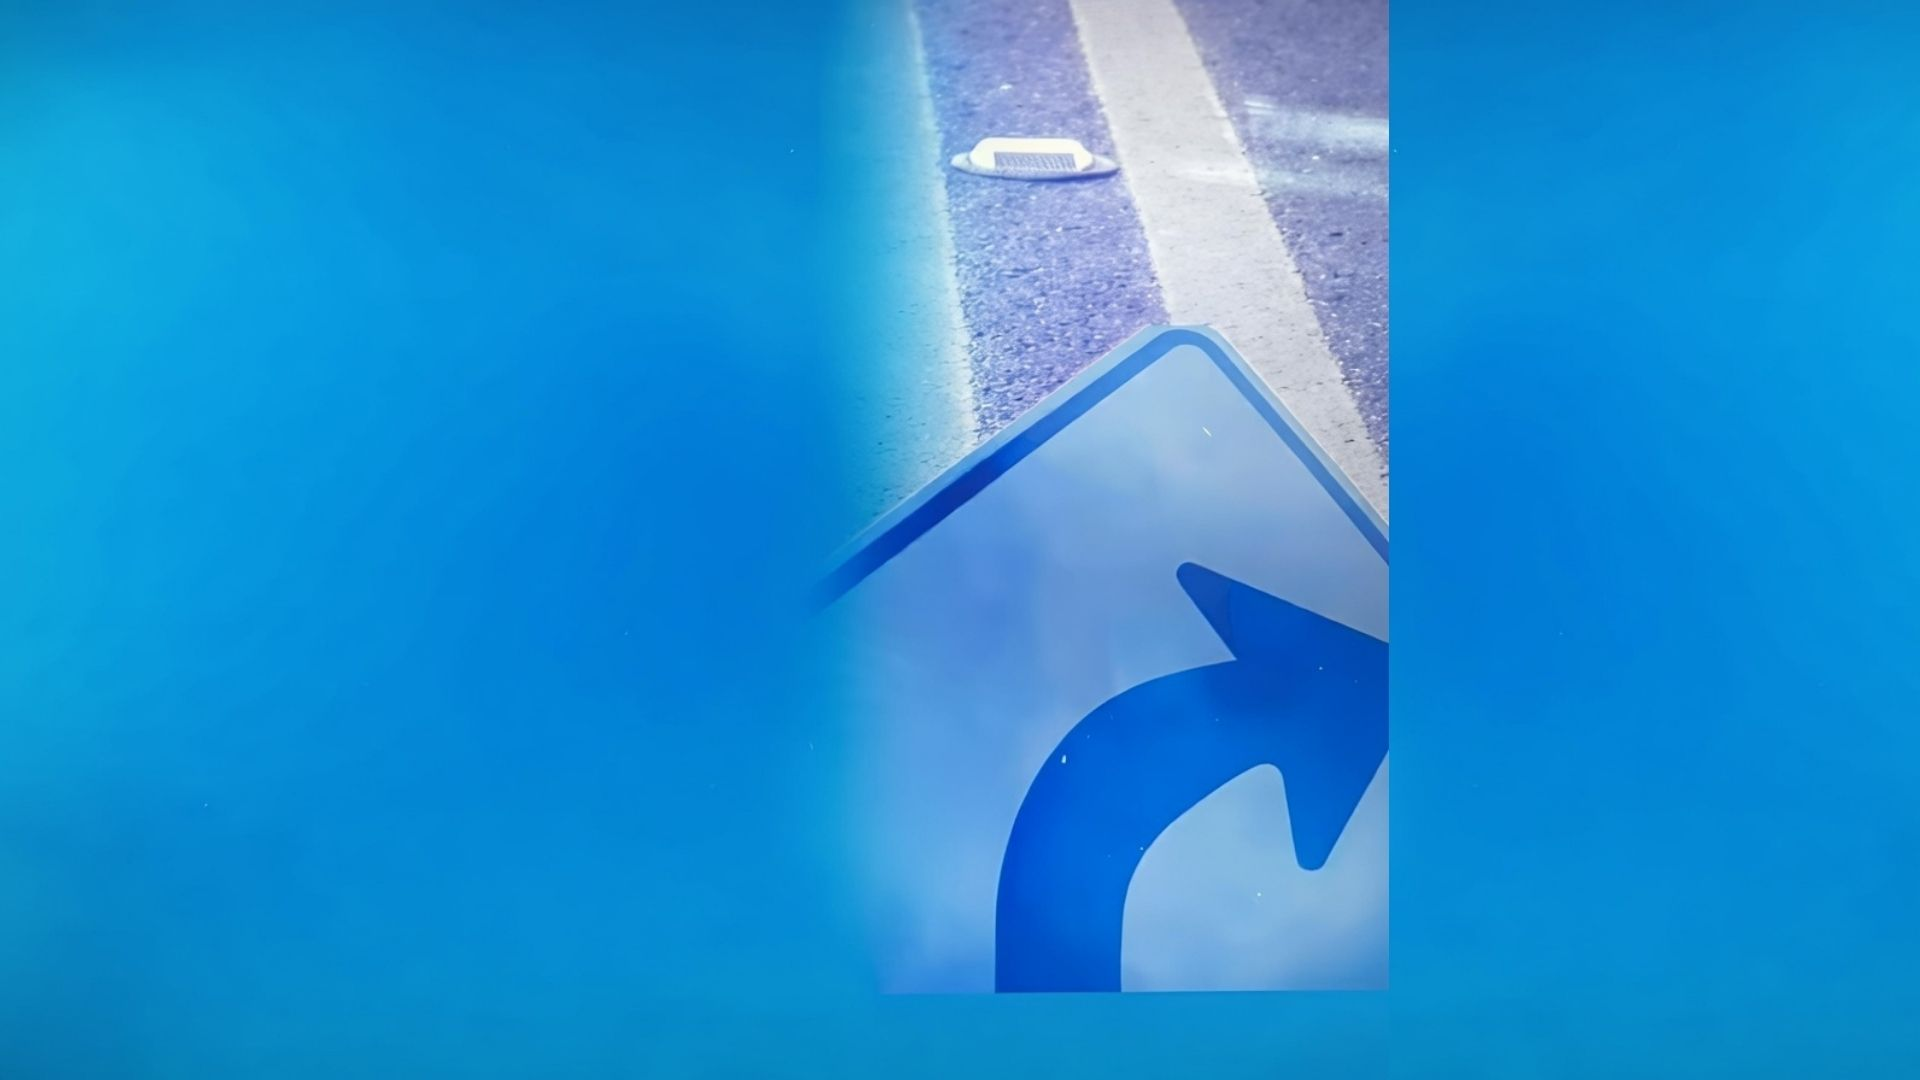
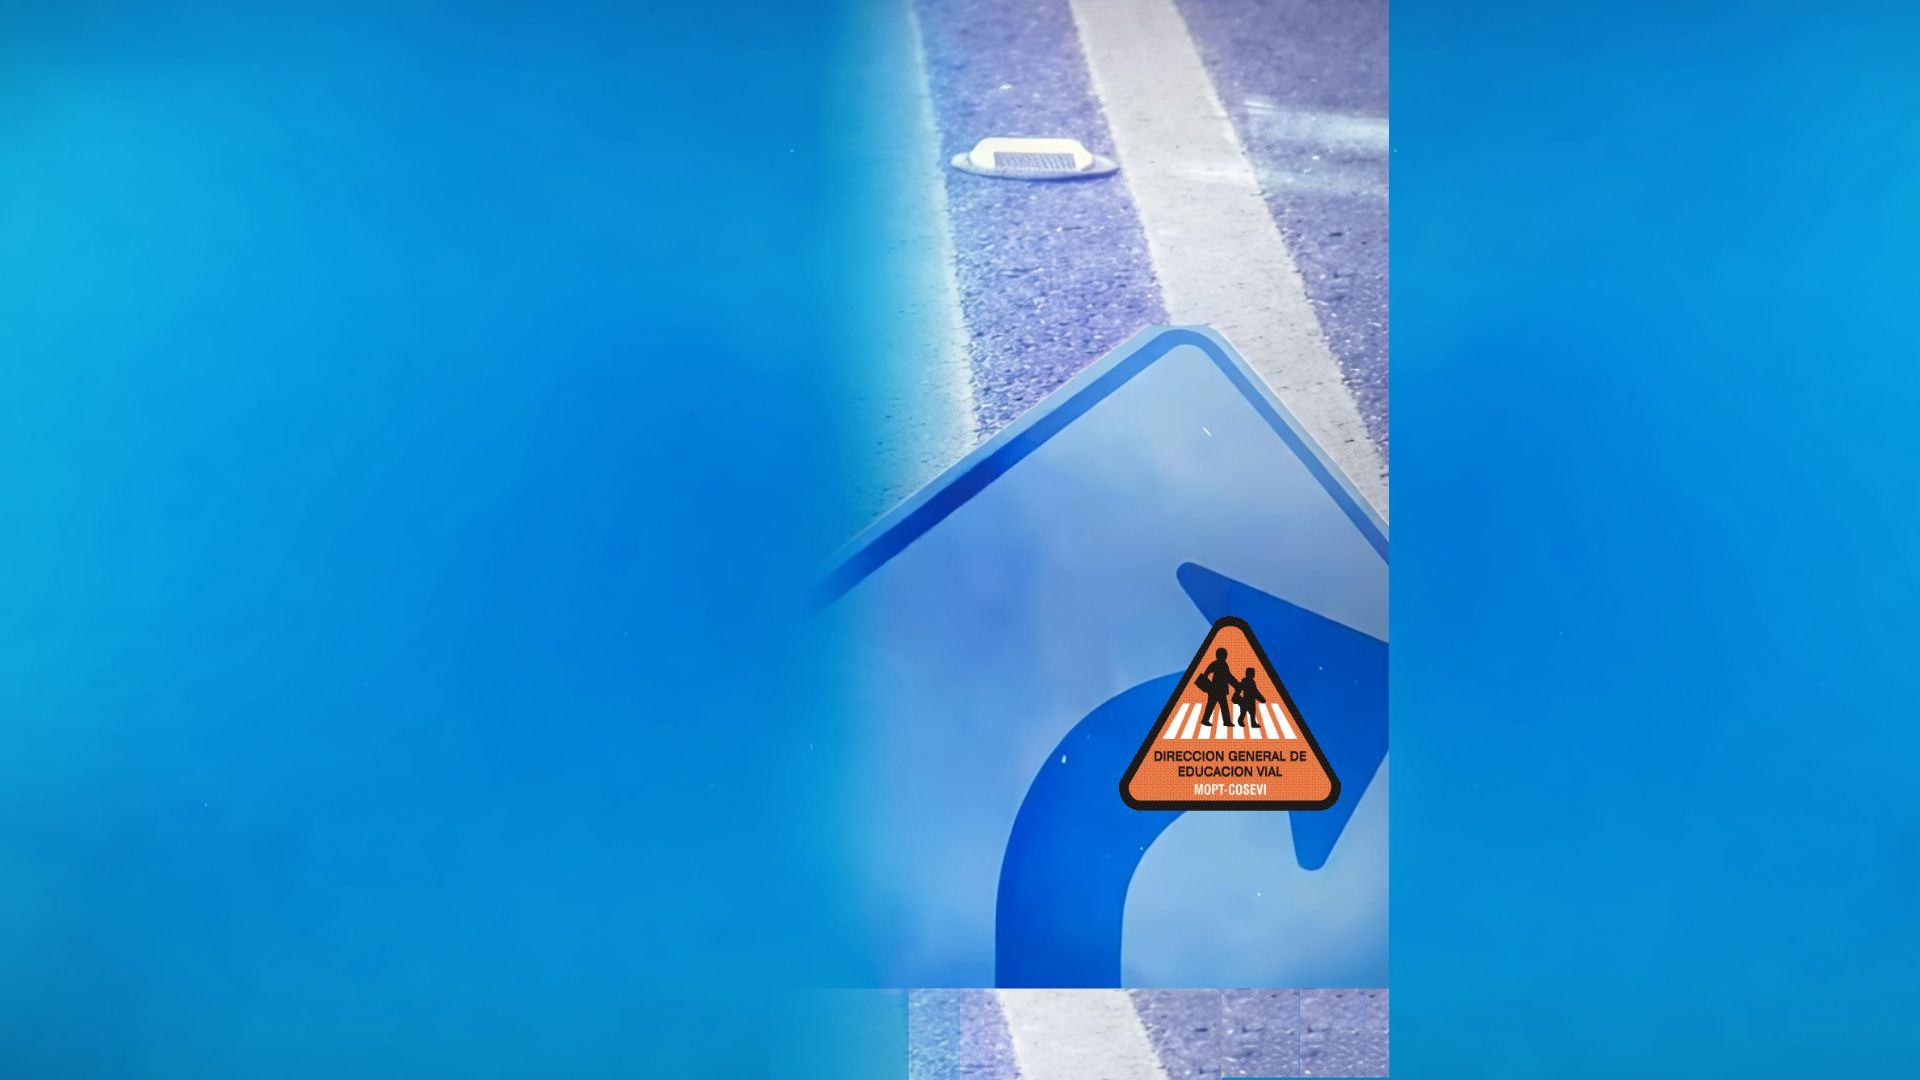
remove background image and related styling from Login component

Changed region(s): [[0.4375, 0.9167, 0.75, 1.0], [0.5625, 0.55, 0.7188, 0.7639]]

diff --git a/src/pages/Login.jsx b/src/pages/Login.jsx
@@ -97,19 +97,6 @@ const Login = () => {
               </div>
             </form>
           </div>
-
-          <div className="flex-1 flex justify-center items-center relative">
-            <div className="absolute right-14 bottom-14">
-              <div className="w-50 h-50 z-2">
-                <img
-                  src="/logo.webp"
-                  alt="Señal Zona Escolar"
-                  className="w-full object-contain contrast-[1.1]"
-                />
-              </div>
-            </div>
-            <div className="absolute w-75 h-75 bg-[rgba(255,255,255,0.1)] rounded-full top-1/2 left-1/2 -translate-x-1/2 -translate-y-1/2 blur-[20px]"></div>
-          </div>
         </div>
       </div>
     </section>
